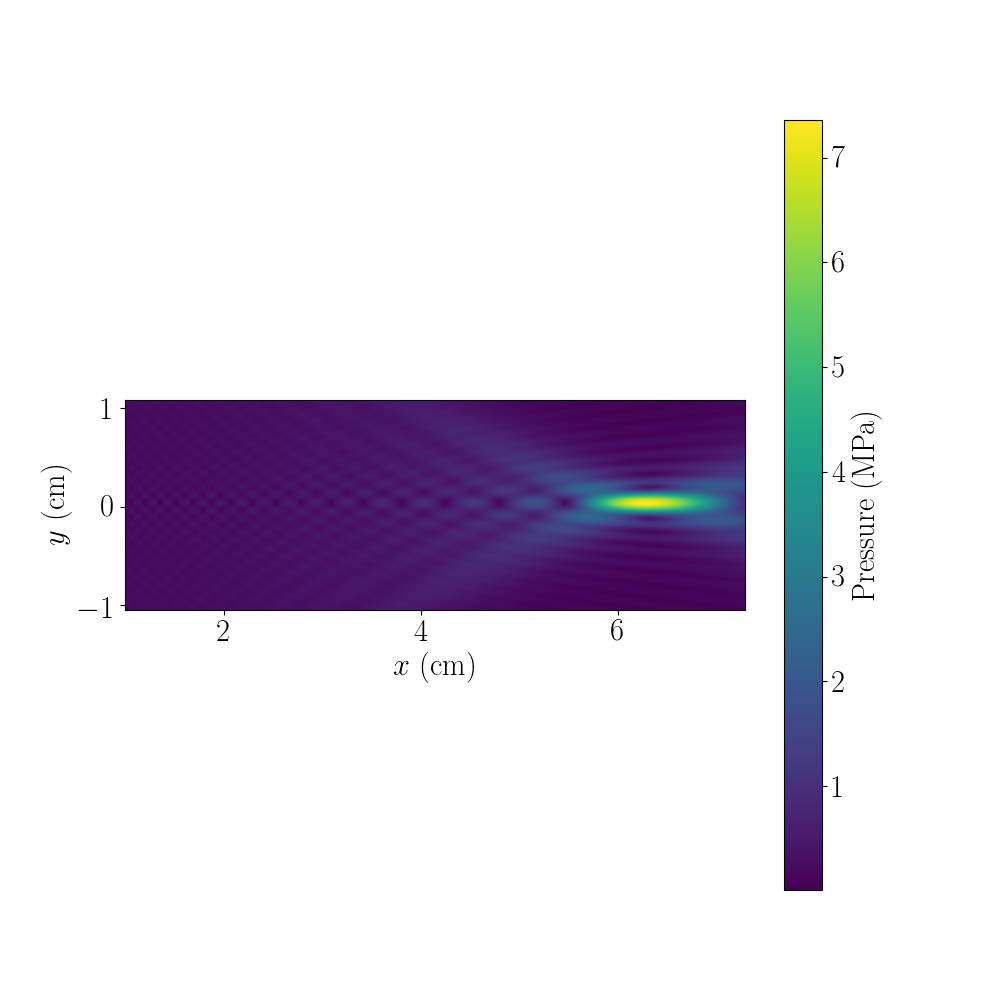
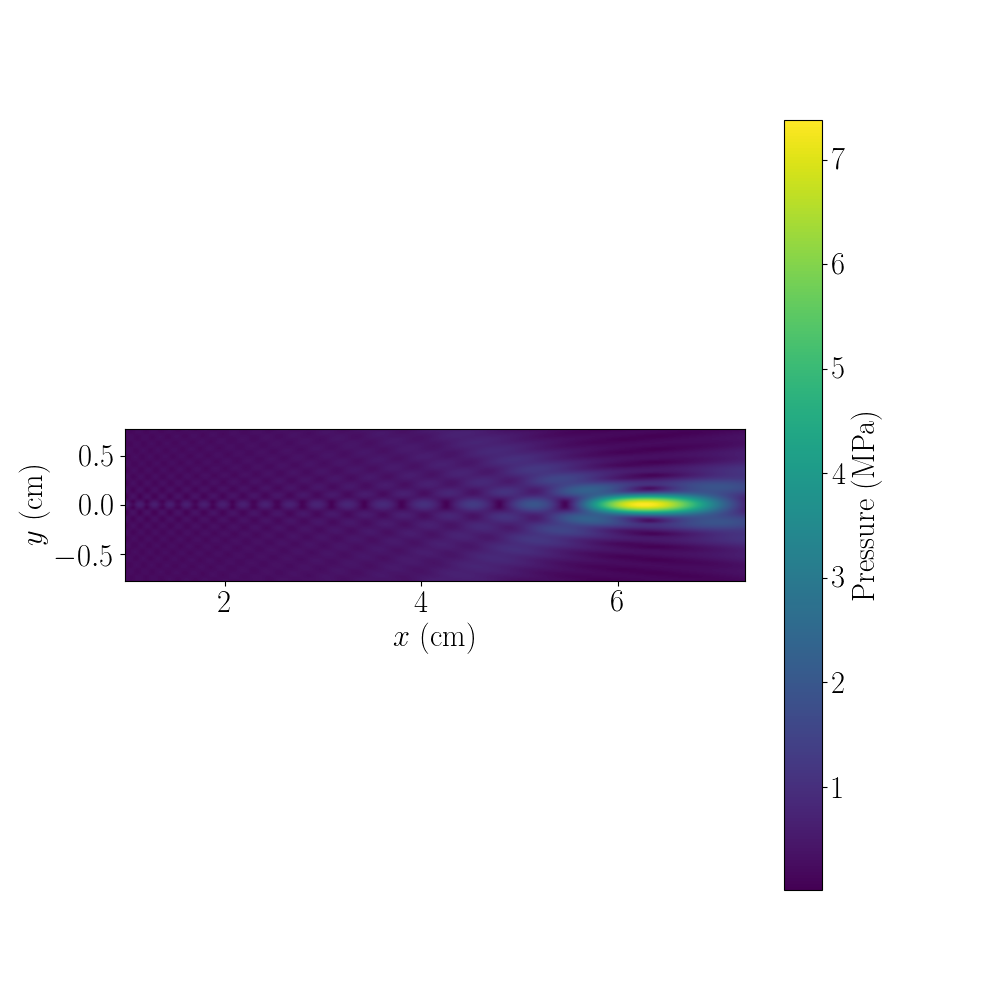
Get nonlinear code working

diff --git a/demo/hifu/transducer_nonlinear.py b/demo/hifu/transducer_nonlinear.py
@@ -24,12 +24,12 @@ from vines.geometry.geometry import shape
 from vines.fields.plane_wave import PlaneWave
 from vines.operators.acoustic_operators import volume_potential
 from vines.precondition.threeD import circulant_embed_fftw
-from vines.operators.acoustic_matvecs import mvp_vec_fftw, mvp_domain
+from vines.operators.acoustic_matvecs import mvp_volume_potential, mvp_vec_fftw
 from scipy.sparse.linalg import LinearOperator, gmres
 from vines.mie_series_function import mie_function
 from matplotlib import pyplot as plt
 from vines.geometry.geometry import generatedomain
-from vines.fields.transducers import bowl_transducer
+from vines.fields.transducers import bowl_transducer, normalise_power
 import time
 import matplotlib
 
@@ -61,7 +61,7 @@ f1 = 1.1e6
 roc = 0.0632
 inner_D = 0.0
 outer_D = 0.064
-power = 50
+power = 44
 # FIXME: don't need to define focus location but perhaps handy for clarity?
 focus = [roc, 0., 0.]
 # FIXME: need source pressure as input
@@ -72,17 +72,18 @@ nPerLam = 4
 # Compute useful quantities: wavelength (lam), wavenumber (k0),
 # angular frequency (omega)
 lam = c / f1
-k1 = 2 * np.pi * f1 / c + attenuation(f1, alpha0, eta)
-omega = 2 * np.pi * f1 / c
+k1 = 2 * np.pi * f1 / c + 1j * attenuation(f1, alpha0, eta)
+omega = 2 * np.pi * f1
 
 # Create voxel mesh
 dx = lam / nPerLam
 
 # Dimension of computation domain
-x_start = 0.01
+# x_start = 0.01
+x_start = 0.009790089908332557
 x_end = roc + 0.01
 wx = x_end - x_start
-wy = outer_D / 3
+wy = outer_D / 4
 wz = wy
 # embed()
 
@@ -106,21 +107,15 @@ idx_near = np.abs(dist_from_focus - roc)<5e-4
 p[idx_near] = 0.0
 
 # Normalise incident field to achieve desired total acoutic power
-n_quad = 500
-r_quad_dim = outer_D / 2
-r_quad = np.linspace(0, r_quad_dim, n_quad)
-x_location_disk = roc - 0.98 * np.sqrt(roc**2 - (outer_D/2)**2)
-points_quad = np.vstack((x_location_disk * np.ones(n_quad),
-                         np.zeros(n_quad),
-                         r_quad))
-
-_, _, _, p_quad = bowl_transducer(np.real(k1), roc, focus, outer_D/2,
-                    n_elements, inner_D/2, points_quad,'x')
-integral = 2*np.pi*np.sum(np.abs(p_quad)**2 * r_quad)*r_quad_dim/n_quad 
-p0 = np.sqrt(2*rho*c*power/integral)
+p0 = normalise_power(power, rho, c, outer_D/2, k1, roc,
+                    focus, n_elements, inner_D/2)
 
 p *= p0
-P1 = p.reshape(L, M, N, order='F')
+
+n_harm = 2
+P = np.zeros((n_harm, L, M, N), dtype=np.complex128)
+P[0] = p.reshape(L, M, N, order='F')
+
 
 # Create a pretty plot of the first harmonic in the domain
 # matplotlib.use('Agg')
@@ -132,7 +127,7 @@ xmin, xmax = r[0, 0, 0, 0] * 100, r[-1, 0, 0, 0] * 100
 ymin, ymax = r[0, 0, 0, 1] * 100, r[0, -1, 0, 1] * 100
 fig = plt.figure(figsize=(10, 10))
 ax = fig.gca()
-plt.imshow(np.abs(P1[:, :, np.int(np.floor(N/2))].T / 1e6),
+plt.imshow(np.abs(P[0, :, :, np.int(np.floor(N/2))].T / 1e6),
            extent=[xmin, xmax, ymin, ymax],
            cmap=plt.cm.get_cmap('viridis'), interpolation='spline16')
 plt.xlabel(r'$x$ (cm)')
@@ -142,53 +137,64 @@ cbar.ax.set_ylabel('Pressure (MPa)')
 fig.savefig('H101.png')
 plt.close()
 
-'''     Compute the second harmonic by evaluating the volume potential      '''
-f2 = 2 * f1
-k2 = 2 * np.pi * f2 / c + attenuation(f2, alpha0, eta)
-
-toep = volume_potential(k2, r)
-
-start = time.time()
-circ_op = circulant_embed_fftw(toep, L, M, N)
-end = time.time()
-print('Time for circulant embedding and FFT:', end-start)
-
-
-xIn = np.zeros((L, M, N), dtype=np.complex128)
-
-xIn = P1
-xInVec = xIn.reshape((L*M*N, 1), order='F')
-
-idx = np.ones((L, M, N), dtype=bool)
-
-
-def mvp(x):
-    'Matrix-vector product operator'
-    return mvp_vec_fftw(x, circ_op, idx, Mr)
-
-
-# Voxel permittivities
-Mr = np.ones((L, M, N), dtype=np.complex128)
-
-start = time.time()
-xOut = mvp(2 * beta * omega**2 / rho * xInVec * xInVec)
-end = time.time()
-print('Time for MVP:', end-start)
-
-P2 = xOut.reshape(L, M, N, order='F')
-
 ny_centre = np.int(np.floor(M/2))
-nz_centre = np.int(np.floor(N/2)) 
+nz_centre = np.int(np.floor(N/2))
+# x_line = (r[:, ny_centre, nz_centre, 0]) * 100
+# plt.plot(x_line, np.abs(P1[:, ny_centre, nz_centre])/1e6,'k-', linewidth=2)
+# plt.show()
+
+'''      Compute the next harmonics by evaluating the volume potential      '''
+n_harm = 2
+for i_harm in range(1, n_harm):
+    f2 = (i_harm + 1) * f1
+    k2 = (i_harm + 1) * np.pi * f2 / c + 1j * attenuation(f2, alpha0, eta)
+
+    # Assemble volume potential Toeplitz operator perform circulant embedding
+    start = time.time()
+    toep_op = volume_potential(k2, r)
+
+    circ_op = circulant_embed_fftw(toep_op, L, M, N)
+    end = time.time()
+    print('Operator assembly and its circulant embedding:', end-start)
+
+    # Create vector for matrix-vector product
+    if i_harm==1:
+        # Second harmonic
+        xIn = 2 * beta * omega**2 / (rho * c**4) * P[0] * P[0]
+    elif i_harm==2:
+        # Third harmonic
+        xIn = 9 * beta * omega**2 / (rho * c**4) * P[0] * P[1]
+
+    xInVec = xIn.reshape((L*M*N, 1), order='F')
+    idx = np.ones((L, M, N), dtype=bool)
+
+    def mvp(x):
+        'Matrix-vector product operator'
+        return mvp_volume_potential(x, circ_op, idx, Mr)
+
+    # def mvp2(x):
+    #     'Matrix-vector product operator'
+    #     return mvp_vec(x, circ_op, idx, Mr)
+
+
+    # Voxel permittivities
+    Mr = np.ones((L, M, N), dtype=np.complex128)
+    
+
+    # Perform matrix-vector product
+    P[i_harm] = mvp(xInVec).reshape(L, M, N, order='F')
+    # from IPython import embed; embed()
+    # exit()
 
 # Plot harmonics along central axis
 x_line = (r[:, ny_centre, nz_centre, 0]) * 100
 fig = plt.figure(figsize=(14, 8))
 ax = fig.gca()
-plt.plot(x_line, np.abs(P1[:, ny_centre, nz_centre])/1e6,'k-', linewidth=2)
-plt.plot(x_line, np.abs(P2[:, ny_centre, nz_centre])/1e6,'r-', linewidth=2)
+plt.plot(x_line, np.abs(P[0, :, ny_centre, nz_centre])/1e6,'k-')
+plt.plot(x_line, np.abs(P[1, :, ny_centre, nz_centre])/1e6,'r-')
 plt.grid(True)
 # plt.xlim([1, 7])
-# plt.ylim([0, 9])
+plt.ylim([0, 8])
 plt.xlabel(r'Axial distance (cm)')
 plt.ylabel(r'Pressure (MPa)')
 fig.savefig('H101_harms_axis.png')

diff --git a/vines/fields/transducers.py b/vines/fields/transducers.py
@@ -46,14 +46,14 @@ def bowl_transducer(k, focal_length, focus, radius,
         y = -x_t
         x = z_t
 
-    def eval_source_vec(x, y, z, points, k):
-        # p = np.zeros_like(points[0])
-        p = 0.0
-        for i in range(x.shape[0]):
-            dist = np.sqrt((points[0] - x[i])**2 + (points[1] - y[i])**2 +
-                           (points[2] - z[i])**2)
-            p += np.exp(1j * k * dist) / (4 * np.pi * dist)
-        return p
+    # def eval_source_vec(x, y, z, points, k):
+    #     # p = np.zeros_like(points[0])
+    #     p = 0.0
+    #     for i in range(x.shape[0]):
+    #         dist = np.sqrt((points[0] - x[i])**2 + (points[1] - y[i])**2 +
+    #                        (points[2] - z[i])**2)
+    #         p += np.exp(1j * k * dist) / (4 * np.pi * dist)
+    #     return p
 
 
     from numba import njit, prange
@@ -77,3 +77,22 @@ def bowl_transducer(k, focal_length, focus, radius,
     # p = eval_source_vec(x, y, z, points, k)
 
     return x, y, z, p*a
+
+
+def normalise_power(power, rho, c0, radius, k1, focal_length,
+                    focus, n_elements, aperture_radius):
+    import numpy as np
+    n_quad = 500
+    r_quad_dim = radius * 1.0
+    r_quad = np.linspace(0, r_quad_dim, n_quad)
+    # x_location_disk = x_location
+    x_location_disk = focal_length - 0.98 * np.sqrt(focal_length**2 - radius**2)
+    points_quad = np.vstack((x_location_disk * np.ones(n_quad),
+                            np.zeros(n_quad),
+                            r_quad))
+
+    _, _, _, p_quad = bowl_transducer(np.real(k1), focal_length, focus, radius,
+                        n_elements, aperture_radius, points_quad,'x')
+    integral = 2*np.pi*np.sum(np.abs(p_quad)**2 * r_quad)*r_quad_dim/n_quad 
+    p0 = np.sqrt(2*rho*c0*power/integral)
+    return p0

diff --git a/vines/operators/acoustic_matvecs.py b/vines/operators/acoustic_matvecs.py
@@ -55,3 +55,21 @@ def mvp_domain(xIn, circ_op, idx, Mr):
     xOut[np.invert(idx)] = 0.0
     xOutVec = xOut.reshape(L * M * N, 1, order='F')
     return xOutVec
+
+
+pyfftw.config.NUM_THREADS = multiprocessing.cpu_count()
+def mvp_volume_potential(xIn, circ_op, idx, Mr):
+    ''' Matrix-vector product with FFTW'''
+    (L, M, N) = Mr.shape
+    xInRO = xIn.reshape(L, M, N, order='F')
+    xInRO[np.invert(idx)] = 0.0
+
+    xOut = np.zeros((L, M, N), dtype=np.complex128)
+    xOutVec = np.zeros((L * M * N, 1), dtype=np.complex128)
+
+    xFFT = pyfftw.interfaces.numpy_fft.fftn(xInRO, [2 * L, 2 * M, 2 * N])
+    Y = pyfftw.interfaces.numpy_fft.ifftn(circ_op * xFFT)
+    xOut = Mr * Y[0:L, 0:M, 0:N]
+    xOut[np.invert(idx)] = 0.0
+    xOutVec = xOut.reshape(L * M * N, 1, order='F')
+    return xOutVec
